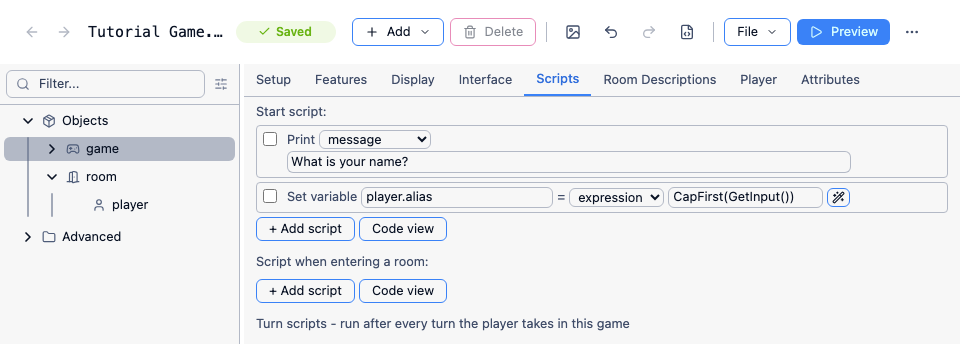
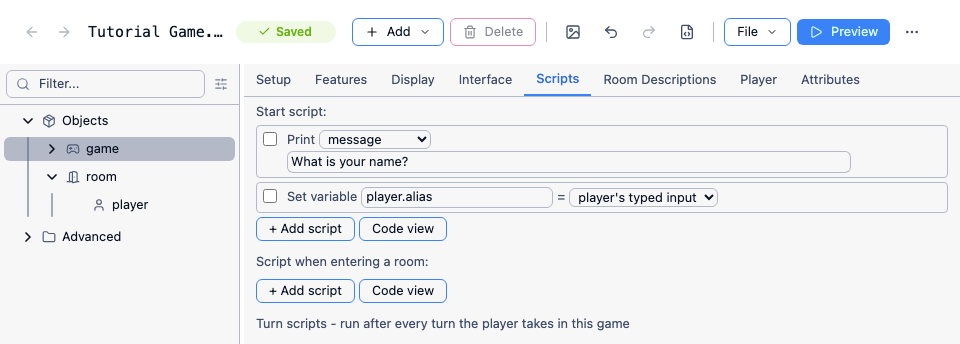
docs: simplify the asking-a-question guide
Review feedback on #2286:

- Drop CapFirst from the first two examples. Wrapping GetInput() in
  anything makes the script editor fall back to a raw expression field;
  assigned directly it shows as the "player's typed input" template, which
  is what the surrounding prose tells the reader to pick. Question1/2
  regenerated accordingly.
- Say a Quest 5 game "may use" get input, not that it does - GetInput()
  was there until 5.4 deprecated it, so older games use the function too.
- Cut the asides explaining what the old callback command got wrong. A new
  author does not need the history to follow the guide; the one note
  pointing at `get input` is enough for anyone reading an existing game.
  Same trim in blocks-and-scripts.md, where the page's own subject still
  warrants the ask{} vs Ask() comparison but not the commentary around it.

Changed region(s): [[0.5938, 0.5233, 0.9062, 0.6105]]

diff --git a/site/src/content/docs/howto/tasks/asking-a-question.md b/site/src/content/docs/howto/tasks/asking-a-question.md
@@ -12,18 +12,18 @@ Often in a text adventure you want the game to ask an open-ended question of the
 
 ```quest
 msg ("What is your name?")
-player.alias = CapFirst(GetInput())
+player.alias = GetInput()
 ```
 
 The first line just asks the question. Then we see `GetInput()`. This suspends the script until the player has typed a response, and then hands back what they typed, as a string - so we can assign it straight to an attribute, and the next line of the script does not run until the answer is in.
 
-Note that we are setting the "alias" attribute; the "name" attribute cannot be changed during play as Quest Viva uses that to track each object. Note that it makes sure there is a capital at the start. You can then use the text processor to insert the character's name in text:
+Note that we are setting the "alias" attribute; the "name" attribute cannot be changed during play as Quest Viva uses that to track each object. You can then use the text processor to insert the character's name in text:
 
 ```quest
 'Hi, {player.alias},' says the oddly-shaped doll.
 ```
 
-**Note:** Games written for Quest 5 ask questions with the [get input](/scripts#get-input) script command instead, which runs a nested block once the player has answered. That still works, and you will still see it in the script editor if a game already contains it, but it is no longer offered when you add a new script command. Everything on this page is easier with `GetInput()`, so that is what we use throughout.
+**Note:** A game written for Quest 5 may use the [get input](/scripts#get-input) script command instead, which runs a nested block once the player has answered - that was the way to do this from Quest 5.4 onwards. It still works, and is still editable if a game already contains it, but it is no longer offered when you add a new script command.
 
 ## Multiple questions
 
@@ -33,27 +33,12 @@ Asking a second question is just a case of writing a second question:
 
 ```quest
 msg ("What is your name?")
-player.alias = CapFirst(GetInput())
+player.alias = GetInput()
 msg ("How old are you?")
 player.age = GetInput()
 ```
 
 The player is asked for her name, the game waits, she answers; only then is she asked her age. You can carry on like that for as many questions as you like.
-
-This is worth spelling out because it is the thing the old `get input { }` command got wrong. With that command, the game did *not* wait - it printed the question, carried straight on with the rest of the script, and only came back to the nested block once the player answered. So two `get input` commands one after the other asked both questions at once, and only the second one was actually listening. The way round it was to _nest_ the second question inside the first one's block:
-
-```quest
-msg ("What is your name?")
-get input {
-  player.alias = CapFirst(result)
-  msg ("How old are you?")
-  get input {
-    player.age = result
-  }
-}
-```
-
-If you are working on a game that does this, you can leave it alone - it still runs. But there is no reason to write anything new that way.
 
 
 ## Looking for a specific answer
@@ -151,8 +136,6 @@ JS.eval("$('#txtCommand').attr('placeholder', 'Type here...');")
 JS.panesVisible(true)
 ```
 
-Notice that the two lines putting the interface back to normal are just the last two lines of the script. With `get input { }` they would have had to go inside the block, because anything after the block ran immediately - before the player had answered.
-
 
 ## Dozens of questions
 
@@ -176,5 +159,3 @@ msg (" ")
 ```
 
 The loop takes each question in turn, prints it, waits for the answer, and adds that answer to the list. Once the list of questions has run out, the loop ends and the summary at the bottom is printed.
-
-Doing this with `get input { }` used to take a recursive function - a function that calls itself, with the next call made from inside the callback block, and a check to stop it once the list was empty. If you have a game that does that, it still works, but a loop is a lot easier to follow.

diff --git a/site/src/content/docs/howto/scripting/blocks-and-scripts.md b/site/src/content/docs/howto/scripting/blocks-and-scripts.md
@@ -13,7 +13,7 @@ Script commands with blocks that wait: `ask, get input, on ready, show menu, wai
 
 Functions with scripts that wait: `Ask, ShowMenu, SetTimeout, SetTimeoutID, SetTurnTimeout, SetTurnTimeoutID`
 
-**Note:** Four of those waiting script commands - [ask](/scripts#ask), [get input](/scripts#get-input), [show menu](/scripts#show-menu) and [wait](/scripts#wait) - each now have a simpler alternative that avoids all of this, and are no longer offered when you add a new script command. Use [Ask](/reference/functions/user-interface#ask), [GetInput](/reference/functions/user-interface#getinput), [ShowMenu](/reference/functions/user-interface#showmenu) and [WaitForKeyPress](/reference/functions/user-interface#waitforkeypress) instead: those suspend the script where it is and carry on with the next line once the player has answered, so there is nothing to nest and no callback block to get caught out by. The rest of this page still matters for the callback forms that remain - `on ready`, the timeout functions, and the `Ask (...) { }` and `ShowMenu (...) { }` function forms, which print their options as links in the transcript - and for reading games that already use the four commands above.
+**Note:** Four of those waiting script commands - [ask](/scripts#ask), [get input](/scripts#get-input), [show menu](/scripts#show-menu) and [wait](/scripts#wait) - are no longer offered when you add a new script command. Use [Ask](/reference/functions/user-interface#ask), [GetInput](/reference/functions/user-interface#getinput), [ShowMenu](/reference/functions/user-interface#showmenu) and [WaitForKeyPress](/reference/functions/user-interface#waitforkeypress) instead: they suspend the script where they are and carry on at the next line, so there is nothing to nest. The rest of this page applies to the callback forms that remain - `on ready`, the timeout functions, and the `Ask (...) { }` and `ShowMenu (...) { }` function forms.
 
 
 ## Script commands and blocks
@@ -56,7 +56,7 @@ The player will be asked the question, but Quest Viva will print "You walk swift
 
 The `on ready` script command is there specifically to ensure Quest Viva waits for any outstanding block to end before running its own block.
 
-This is why the `ask` command is no longer offered when you add a script. The `Ask` function does the same job without the trap, because it hands back the answer rather than running a block with it:
+The `Ask` function does the same job without the trap, because it hands back the answer rather than running a block with it:
 
 ```quest
 msg ("A man steps out of the door way. 'You wanna a cheap watch?'")
@@ -69,7 +69,7 @@ else {
 msg ("You walk swiftly on.")
 ```
 
-Now "You walk swiftly on." really is printed last. The same goes for `get input`, `show menu` and `wait` - see the note at the top of this page.
+Now "You walk swiftly on." really is printed last.
 
 
 ## Functions with scripts
